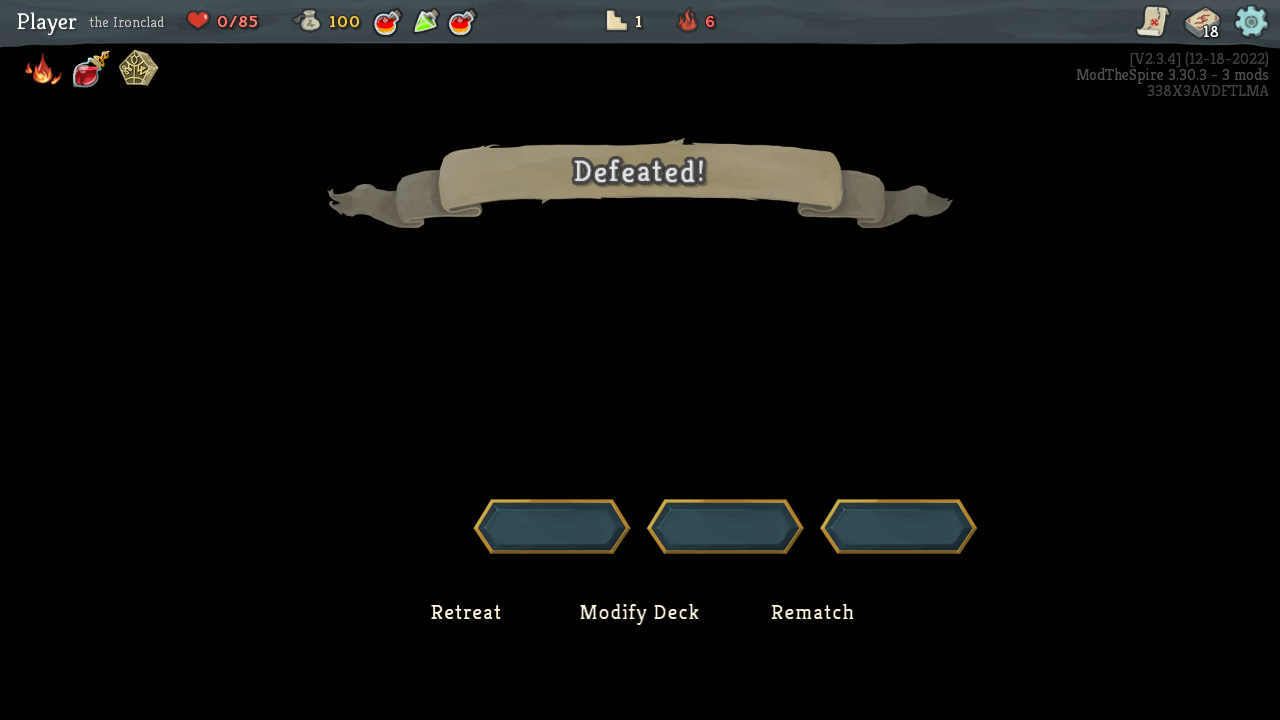
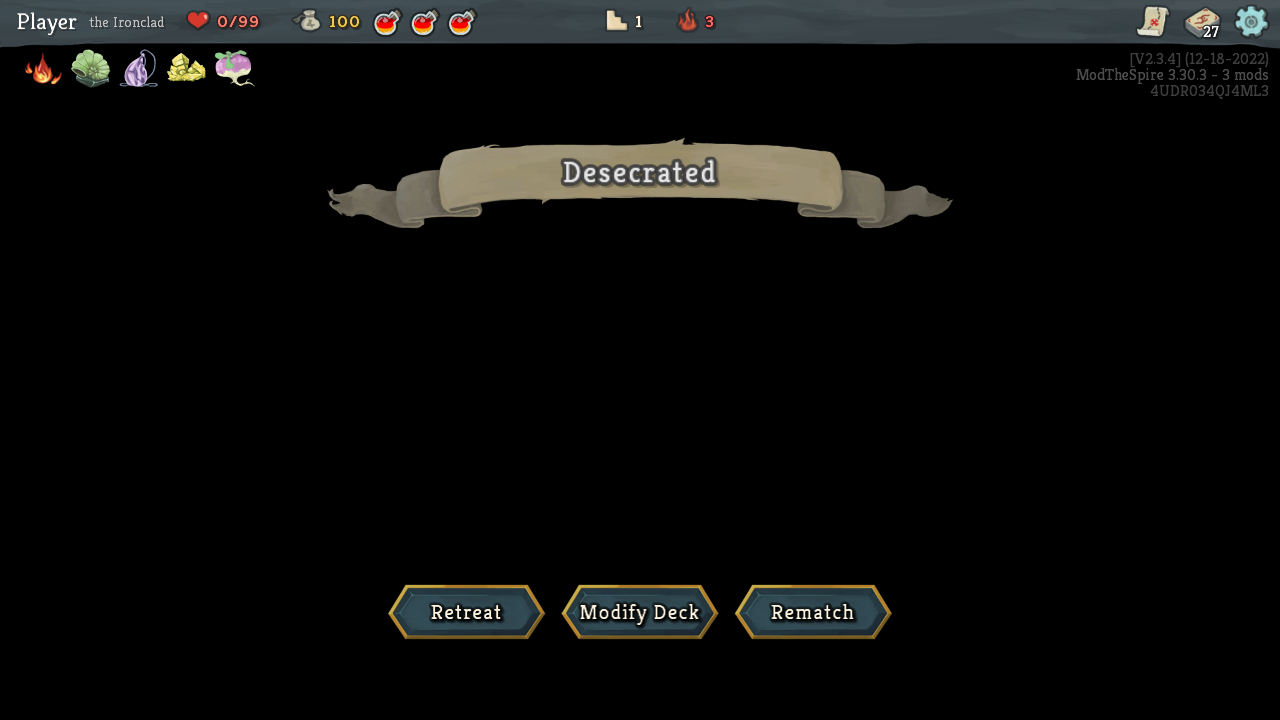
Fix button positioning in victory/defeat screens
The position offset in sb.draw() should NOT be multiplied by scale -
the scaling happens around the origin point (256, 256), so the position
should be (x - 256, y - 256) to center the button at (x, y).

Also fix the test to use an actual loadout ID for the retry data.

🤖 Generated with [Claude Code](https://claude.com/claude-code)

diff --git a/acceptance_tests/test_generate_screenshots.py b/acceptance_tests/test_generate_screenshots.py
@@ -657,10 +657,15 @@ def test_generate_documentation_screenshots(at_main_menu):
     time.sleep(1.0)
 
     # Set up arena retry data so the "Try Again in Arena Mode" button appears
-    # We use loadout 1 and the current encounter
-    coordinator.game_is_ready = False
-    coordinator.send_message("set_retry_data 1 Cultist")
-    wait_for_ready(coordinator)
+    # Get an actual loadout ID from the loadouts we created earlier
+    actual_loadout_id = get_loadout_id(coordinator, index=0)
+    if actual_loadout_id:
+        print(f"  Setting retry data with loadout {actual_loadout_id}")
+        coordinator.game_is_ready = False
+        coordinator.send_message(f"set_retry_data {actual_loadout_id} Cultist")
+        wait_for_ready(coordinator)
+    else:
+        print("  Warning: Could not get loadout ID for retry data")
 
     # Lose the fight to show death screen
     coordinator.game_is_ready = False

diff --git a/src/main/java/stsarena/patches/ArenaDeathScreenButtonsPatch.java b/src/main/java/stsarena/patches/ArenaDeathScreenButtonsPatch.java
@@ -207,13 +207,13 @@ public class ArenaDeathScreenButtonsPatch {
             }
 
             // Draw button background
+            // Position offset is NOT scaled - scaling happens around the origin (center)
             sb.setColor(buttonColor);
-            float btnScale = Settings.scale;
             sb.draw(ImageMaster.DYNAMIC_BTN_IMG2,
-                x - 256.0f * btnScale, y - 256.0f * btnScale,
-                256.0f, 256.0f,  // origin in source coordinates (center of 512x512 image)
+                x - 256.0f, y - 256.0f,
+                256.0f, 256.0f,
                 512.0f, 512.0f,
-                btnScale, btnScale,
+                Settings.scale, Settings.scale,
                 0.0f,
                 0, 0, 512, 512,
                 false, false);

diff --git a/src/main/java/stsarena/patches/ArenaVictoryScreenPatch.java b/src/main/java/stsarena/patches/ArenaVictoryScreenPatch.java
@@ -236,13 +236,13 @@ public class ArenaVictoryScreenPatch {
             }
 
             // Draw button background
+            // Position offset is NOT scaled - scaling happens around the origin (center)
             sb.setColor(buttonColor);
-            float btnScale = Settings.scale;
             sb.draw(ImageMaster.DYNAMIC_BTN_IMG2,
-                x - 256.0f * btnScale, y - 256.0f * btnScale,
-                256.0f, 256.0f,  // origin in source coordinates (center of 512x512 image)
+                x - 256.0f, y - 256.0f,
+                256.0f, 256.0f,
                 512.0f, 512.0f,
-                btnScale, btnScale,
+                Settings.scale, Settings.scale,
                 0.0f,
                 0, 0, 512, 512,
                 false, false);
